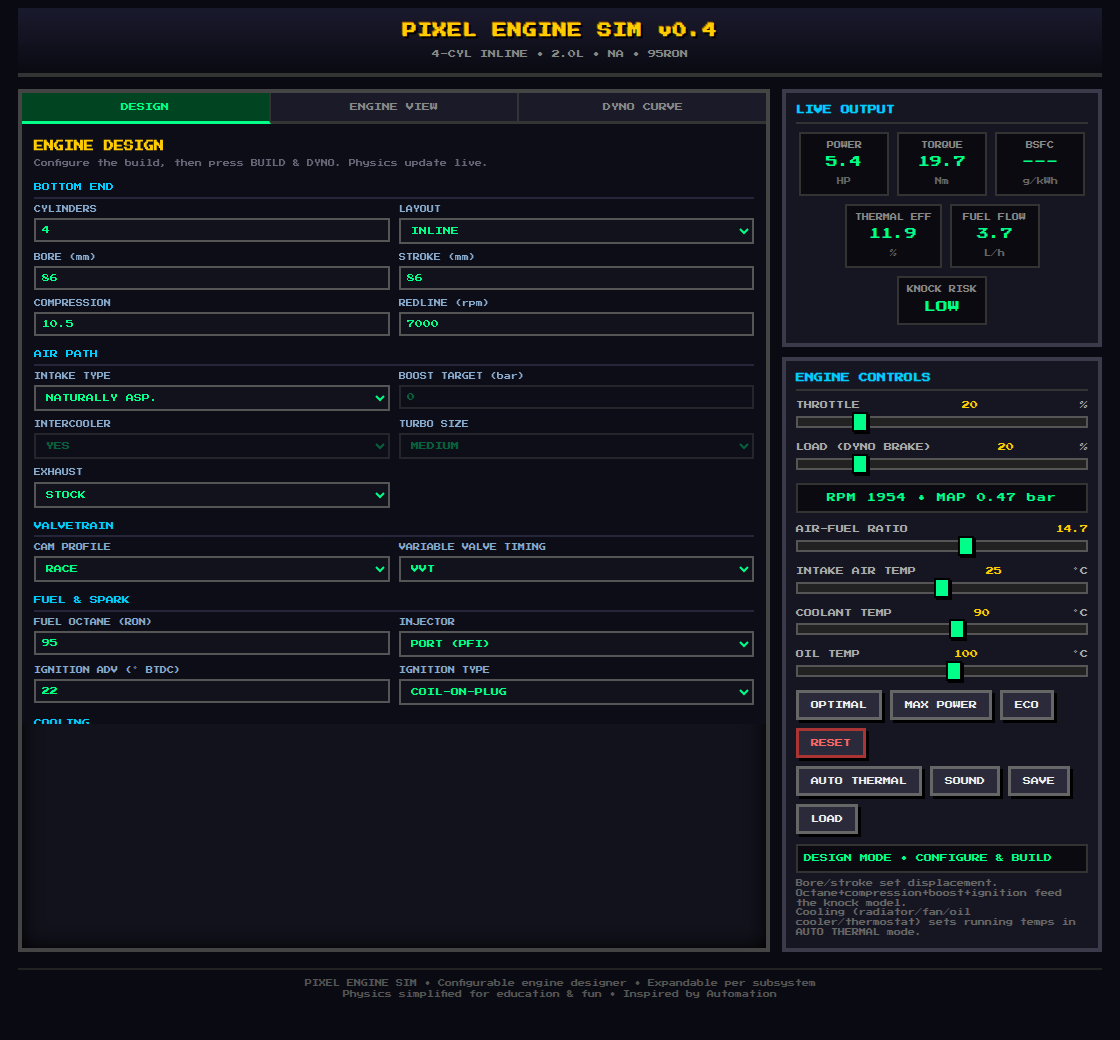
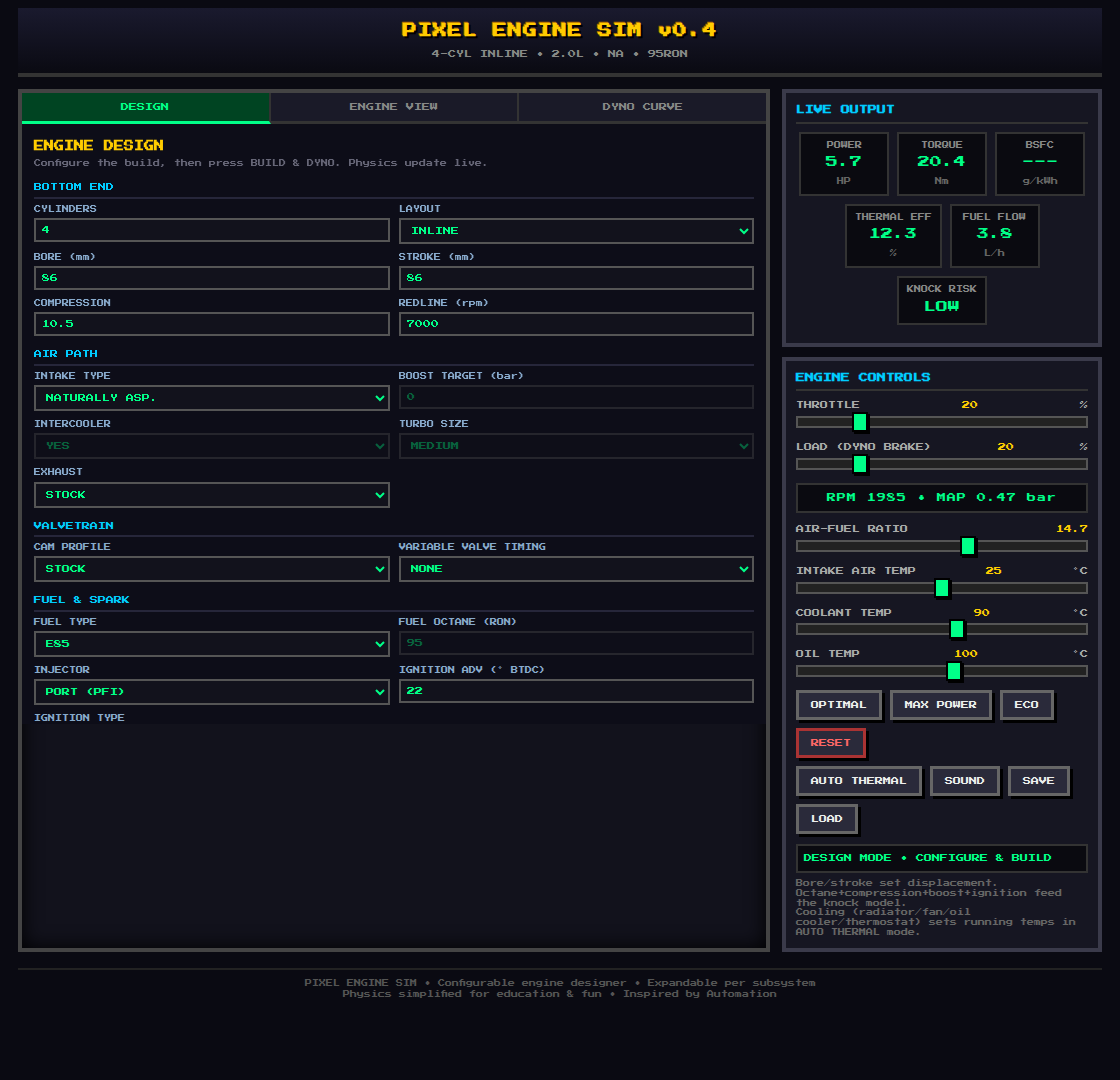
Add fuel types (pump/race gas, E85, methanol) (#7)
New FUEL TYPE selector in the designer, each fuel with its own energy density,
stoichiometric AFR, knock rating and evaporative charge cooling.

- Mixture physics now work in lambda (AFR/stoich) so they're fuel-agnostic; the
  AFR slider rescales to each fuel's stoichiometry (e.g. methanol ~4.4-7.9),
  preserving the current lambda across fuel swaps.
- Fuel flow (L/h), BSFC and thermal efficiency use the selected fuel's density
  and energy content — alcohols burn far more fuel for similar energy.
- Knock uses the fuel's octane rating (octane slider only for pump gas) plus an
  alcohol knock bonus; ethanol/methanol also cool the intake charge (lower
  effective IAT → denser charge + less knock → more power headroom).

Verified on a 2.0T @ 1.2 bar: pump 91 knocks (34) and makes 305 hp; race gas
307 hp knock-free; E85 322 hp at ~1.5x fuel flow; methanol 334 hp at ~2.3x
fuel flow (BSFC 290 → 658). Fuel is carried in build and save/load.

README + design screenshot updated.

Claude-Session: https://claude.ai/code/session_01AEJgmuJne9ALT6jCcxozCn

Changed region(s): [[0.0, 0.0, 1.0, 0.9846], [0.6562, 0.9538, 0.6875, 0.9846], [0.375, 0.9538, 0.4062, 0.9846]]

diff --git a/index.html b/index.html
@@ -122,6 +122,7 @@ footer{text-align:center;margin-top:16px;padding:8px;font-size:7px;color:#555;bo
 
 <div class="design-section">Fuel &amp; Spark</div>
 <div class="design-grid">
+<div class="field"><label for="edFuel">FUEL TYPE</label><select id="edFuel"><option value="gasoline">PUMP GAS</option><option value="race">RACE GAS</option><option value="e85">E85</option><option value="methanol">METHANOL</option></select></div>
 <div class="field"><label for="edOctane">FUEL OCTANE (RON)</label><input type="number" id="edOctane" min="87" max="110" step="1" value="95"></div>
 <div class="field"><label for="edInjector">INJECTOR</label><select id="edInjector"><option value="port">PORT (PFI)</option><option value="direct">DIRECT (DI)</option></select></div>
 <div class="field"><label for="edIgnAdv">IGNITION ADV (° BTDC)</label><input type="number" id="edIgnAdv" min="5" max="40" step="1" value="22"></div>
@@ -186,7 +187,16 @@ footer{text-align:center;margin-top:16px;padding:8px;font-size:7px;color:#555;bo
 <footer>PIXEL ENGINE SIM • Configurable engine designer • Expandable per subsystem<br>Physics simplified for education &amp; fun • Inspired by Automation</footer>
 </div>
 <script>
-const FUEL={density:0.745,LHV:44.0};   // gasoline: kg/L, MJ/kg
+// Fuel properties. density kg/L, LHV MJ/kg, stoich AFR (mass), octane (null → use the
+// RON slider), chargeCool = evaporative charge cooling °C (denser charge + less knock),
+// knockBonus = extra knock margin beyond octane. Alcohols: low energy/kg (more fuel flow)
+// but great knock resistance + big charge cooling → more power headroom.
+const FUELS={
+  gasoline:{label:'PUMP GAS',density:0.745,LHV:44.0,stoich:14.7,octane:null,chargeCool:0, knockBonus:0},
+  race:    {label:'RACE GAS',density:0.735,LHV:43.5,stoich:14.7,octane:105, chargeCool:2, knockBonus:2},
+  e85:     {label:'E85',     density:0.785,LHV:29.2,stoich:9.8, octane:102, chargeCool:15,knockBonus:8},
+  methanol:{label:'METHANOL',density:0.792,LHV:19.9,stoich:6.45,octane:109, chargeCool:25,knockBonus:14}
+};
 const LAYOUT_LABEL={inline:'INLINE',v:'V',boxer:'BOXER'};
 const EXHAUST={
   stock:{topGain:0.05,lowLoss:0.02},
@@ -207,7 +217,7 @@ const DEFAULT_ENGINE={
   cylinders:4,bore_mm:86,stroke_mm:86,compression:10.5,layout:'inline',redline:7000,
   intake:'na',boost_bar:0,intercooler:true,turboSize:'medium',exhaust:'stock',
   cam:'stock',vvt:false,
-  octane:95,injector:'port',ignitionAdv:22,ignitionType:'coil',
+  fuel:'gasoline',octane:95,injector:'port',ignitionAdv:22,ignitionType:'coil',
   radiator:'stock',fan:'electric',oilCooler:false,thermostat:88
 };
 const RAD_CAP={small:0.75,stock:1.0,large:1.35};   // relative heat-rejection capacity
@@ -260,6 +270,7 @@ function readEngineFromForm(){
     exhaust:g('edExhaust').value,
     cam:g('edCam').value,
     vvt:g('edVVT').value==='yes',
+    fuel:g('edFuel').value,
     octane:clamp(Math.round(+g('edOctane').value||95),87,110),
     injector:g('edInjector').value,
     ignitionAdv:clamp(Math.round(+g('edIgnAdv').value||22),5,40),
@@ -277,6 +288,7 @@ function applyEngineToForm(e){
   g('edIntake').value=e.intake;g('edBoost').value=e.boost_bar;g('edIntercooler').value=e.intercooler?'yes':'no';
   g('edTurboSize').value=e.turboSize||'medium';
   g('edCam').value=e.cam||'stock';g('edVVT').value=e.vvt?'yes':'no';
+  g('edFuel').value=e.fuel||'gasoline';
   g('edExhaust').value=e.exhaust;g('edOctane').value=e.octane;g('edInjector').value=e.injector;
   g('edIgnAdv').value=e.ignitionAdv;g('edIgnType').value=e.ignitionType;
   g('edRadiator').value=e.radiator||'stock';g('edFan').value=e.fan||'electric';
@@ -289,9 +301,17 @@ function syncDesignEnable(){
   document.getElementById('edBoost').disabled=na;
   document.getElementById('edIntercooler').disabled=na;
   document.getElementById('edTurboSize').disabled=intake!=='turbo';
+  // Octane only matters for pump gas; other fuels carry their own rating.
+  document.getElementById('edOctane').disabled=document.getElementById('edFuel').value!=='gasoline';
 }
 function buildEngine(){
+  const prevStoich=(engine&&engine.stoichAFR)||14.7;   // to preserve lambda across fuel swaps
   engine=readEngineFromForm();
+  // Fuel: energy content, stoichiometry, knock rating and charge cooling.
+  const fp=FUELS[engine.fuel]||FUELS.gasoline;
+  engine.fuelDensity=fp.density;engine.fuelLHV=fp.LHV;engine.stoichAFR=fp.stoich;
+  engine.effOctane=fp.octane!=null?fp.octane:engine.octane;
+  engine.fuelKnockBonus=fp.knockBonus;engine.chargeCool=fp.chargeCool;
   // Geometry → displacement (bore/stroke in mm → cm³ → L).
   const vcyl_cc=Math.PI/4*Math.pow(engine.bore_mm/10,2)*(engine.stroke_mm/10);
   engine.displacement_L=vcyl_cc*engine.cylinders/1000;
@@ -342,6 +362,12 @@ function buildEngine(){
   // Keep the live operating point valid for the new engine.
   state.rpm=clamp(state.rpm,engine.idleRpmEff,engine.redline);
   state.map=clamp(state.map,0.12,engine.mapMax);
+  // Re-range the AFR slider to this fuel's stoichiometry, preserving the mixture (lambda).
+  const afrEl=document.getElementById('afr'),lam=state.afr/prevStoich;
+  afrEl.min=(engine.stoichAFR*0.68).toFixed(1);
+  afrEl.max=(engine.stoichAFR*1.22).toFixed(1);
+  afrEl.step=engine.stoichAFR<10?0.05:0.1;
+  state.afr=clamp(lam*engine.stoichAFR,+afrEl.min,+afrEl.max);
   syncSliders();
 
   buildRev++;dynoCache=null;
@@ -369,7 +395,8 @@ function updateDesignSummary(){
     '<b>'+engine.cylinders+' × '+engine.bore_mm+'×'+engine.stroke_mm+'mm</b> → <b>'+disp+' L</b> '+LAYOUT_LABEL[engine.layout]+
     '<br>Compression <b>'+engine.compression.toFixed(1)+':1</b> • Redline <b>'+engine.redline+'</b> rpm'+
     '<br>Induction <b>'+induction+'</b>'+
-    '<br>Exhaust <b>'+engine.exhaust.toUpperCase()+'</b> • Cam <b>'+engine.cam.toUpperCase()+(engine.vvt?' + VVT':'')+'</b> • Fuel <b>'+engine.octane+' RON</b>'+
+    '<br>Exhaust <b>'+engine.exhaust.toUpperCase()+'</b> • Cam <b>'+engine.cam.toUpperCase()+(engine.vvt?' + VVT':'')+'</b>'+
+    '<br>Fuel <b>'+FUELS[engine.fuel].label+'</b> ('+engine.effOctane+' oct, '+engine.stoichAFR.toFixed(1)+':1 stoich'+(engine.chargeCool?', −'+engine.chargeCool+'°C charge':'')+')'+
     '<br>Injection <b>'+(engine.injector==='direct'?'Direct':'Port')+'</b> • Ignition <b>'+engine.ignitionAdv+'° '+engine.ignitionType.toUpperCase()+'</b>'+
     '<br>Cooling <b>'+engine.radiator.toUpperCase()+' RAD</b> • <b>'+engine.fan.toUpperCase()+' FAN</b>'+(engine.oilCooler?' • <b>OIL COOLER</b>':'')+' • Thermostat <b>'+engine.thermostat+'°C</b>'+note;
 }
@@ -395,12 +422,14 @@ function liveMap(){return state.map;}
 
 // ---- Physics (all derived from the engine spec + live state) ----
 function effIAT(map){
-  // Forced induction heats the charge; an intercooler removes most of it.
+  // Forced induction heats the charge; an intercooler removes most of it. High-enthalpy
+  // fuels (ethanol/methanol) evaporatively cool the charge — denser air and less knock.
   let t=state.iat;
   if(engine.intake!=='na'){
     const boost=Math.max(0,map-1.0);
     t+=boost*(engine.intercooler?6:25);
   }
+  t-=engine.chargeCool*(engine.injector==='direct'?1.15:1.0);   // DI cools the charge slightly more
   return t;
 }
 function mbtAdvance(rpm,map){
@@ -424,10 +453,12 @@ function computeVE(rpm,map){
   return clamp(ve,0.2,1.2);
 }
 function afrPowerFactor(afr){
-  const peak=12.6;
-  let f=1.08*Math.exp(-Math.pow((afr-peak)/2.8,2));
-  if(afr<11.0)f*=0.85+0.15*(afr-10);
-  if(afr>16.5)f*=1.0-0.15*(afr-16.5);
+  // Work in lambda (AFR / stoich) so the mixture response is fuel-agnostic: peak power at
+  // λ≈0.86 (rich), stoich at λ=1, lean beyond. Alcohols just have a much lower stoich AFR.
+  const lam=afr/engine.stoichAFR,peak=0.86,width=0.19;
+  let f=1.08*Math.exp(-Math.pow((lam-peak)/width,2));
+  if(lam<0.75)f*=0.85+0.6*(lam-0.68);   // very rich rolloff
+  if(lam>1.12)f*=1.0-1.5*(lam-1.12);    // very lean rolloff
   return clamp(f,0.25,1.12);
 }
 function tempFactors(coolant,oil){
@@ -453,9 +484,11 @@ function computeKnockRisk(rpm,map){
   k+=Math.max(0,state.coolant-95)*1.0;                  // hot chamber
   k+=Math.max(0,rpm-engine.redline*0.8)/60;             // less time = more heat soak
   k+=Math.max(0,engine.ignitionAdv-mbt-ignBonus)*2.5;   // over-advanced spark
-  k+=Math.max(0,afr-14.0)*4;                            // lean burns hotter
-  if(afr<12.8)k*=0.5;                                   // rich charge-cools
-  k-=(engine.octane-90)*2.2;                            // octane resists knock
+  const lam=afr/engine.stoichAFR;
+  k+=Math.max(0,(lam-0.95))*60;                         // lean burns hotter
+  if(lam<0.87)k*=0.5;                                   // rich charge-cools
+  k-=(engine.effOctane-90)*2.2;                         // fuel octane resists knock
+  k-=engine.fuelKnockBonus;                             // alcohol extra knock margin
   if(engine.injector==='direct')k-=12;                  // DI charge cooling
   return clamp(k,0,100);
 }
@@ -540,8 +573,8 @@ function updatePhysics(){
   const T_k=effIAT(map)+273.15,MAP_pa=map*1e5,Vd=engine.displacement_L/1000;
   const airMass_kg_s=(MAP_pa*Vd*(state.rpm/60)*state.ve)/(287*T_k*2);
   const fuelMass_kg_s=airMass_kg_s/state.afr;
-  state.fuelFlowLph=(fuelMass_kg_s*3600)/FUEL.density;
-  const fuelPower=fuelMass_kg_s*FUEL.LHV*1e6/1000;
+  state.fuelFlowLph=(fuelMass_kg_s*3600)/engine.fuelDensity;
+  const fuelPower=fuelMass_kg_s*engine.fuelLHV*1e6/1000;
   state.thermalEff=fuelPower>0.1?clamp((state.powerKW/fuelPower)*100,0,45):0;
   state.bsfc=state.powerKW>0.5?(fuelMass_kg_s*3600*1000)/state.powerKW:999;
 }
@@ -849,6 +882,7 @@ function bindControls(){
   document.getElementById('tabDyno').addEventListener('click',()=>setTab('dyno'));
 
   document.getElementById('edIntake').addEventListener('change',syncDesignEnable);
+  document.getElementById('edFuel').addEventListener('change',syncDesignEnable);
   document.getElementById('btnBuild').addEventListener('click',()=>{buildEngine();flash('ENGINE BUILT • '+engine.displacement_L.toFixed(engine.displacement_L<1?2:1)+'L');setTab('dyno')});
   document.getElementById('btnDesignReset').addEventListener('click',()=>{applyEngineToForm(Object.assign({},DEFAULT_ENGINE));buildEngine();flash('DESIGN RESET TO DEFAULTS')});
 }

diff --git a/README.md b/README.md
@@ -21,8 +21,11 @@ feeds the physics:
 - **Valvetrain** — cam profile (stock / sport / race) and variable valve timing (VVT). A
   wilder cam moves the powerband up and adds top-end at the cost of low-end torque and idle
   quality; VVT recovers the bottom end for a broad powerband.
-- **Fuel & spark** — fuel octane (RON), injector type (port / direct), ignition advance
-  and ignition type (distributor / wasted spark / coil-on-plug).
+- **Fuel & spark** — fuel type (pump gas / race gas / E85 / methanol), fuel octane (RON,
+  pump gas only), injector type (port / direct), ignition advance and ignition type
+  (distributor / wasted spark / coil-on-plug). Each fuel has its own energy density, stoich
+  AFR, knock rating and charge-cooling — alcohols resist knock and cool the charge (more
+  power headroom) but burn far more fuel.
 - **Cooling** — radiator size (small / stock / large), cooling fan (none / mechanical /
   electric), oil cooler, and thermostat opening temperature.
 
@@ -114,7 +117,11 @@ Curve** tab remains a wide-open-throttle steady-state sweep for reading the full
 - Ignition timing has a max-brake-torque optimum — too little or too much loses power, and
   over-advance feeds knock.
 - Knock combines boost, compression, charge/coolant temperature, RPM, timing and mixture,
-  offset by octane and direct injection; high knock derates power.
+  offset by fuel octane, charge cooling and direct injection; high knock derates power.
+- Fuel type sets energy density, stoichiometric AFR (the mixture control works in lambda,
+  so the AFR slider rescales per fuel), knock rating and evaporative charge cooling. E85 and
+  methanol resist knock and cool the intake charge (more power) but need much more fuel
+  flow (higher BSFC), while race gas is high-octane pump gas.
 - Cooling balances load-generated heat against radiator capacity + airflow (RPM-driven)
   and fan; the thermostat sets the floor temperature. Overheating (>~108 °C) costs power.
 - Standard 4-stroke BMEP → Torque → Power conversion throughout.
@@ -149,7 +156,7 @@ philosophy).
 - [x] Turbo lag / spool modelling vs. RPM (turbo size, spool curve, transient lag)
 - [x] Cooling subsystem (radiator size, fan, oil cooler, thermostat) feeding the thermal model
 - [ ] Electrical subsystem (alternator load, starter, ignition dwell)
-- [ ] Different fuels (E85, methanol, race gas) with their own knock/energy properties
+- [x] Different fuels (pump/race gas, E85, methanol) with their own energy, stoich, knock & cooling
 - [ ] Reliability / wear simulation
 - [x] Calibration pass for realistic power figures & curve shape (ongoing refinement)
 - [ ] Native Android build (wrap the PWA with Capacitor or a Trusted Web Activity)